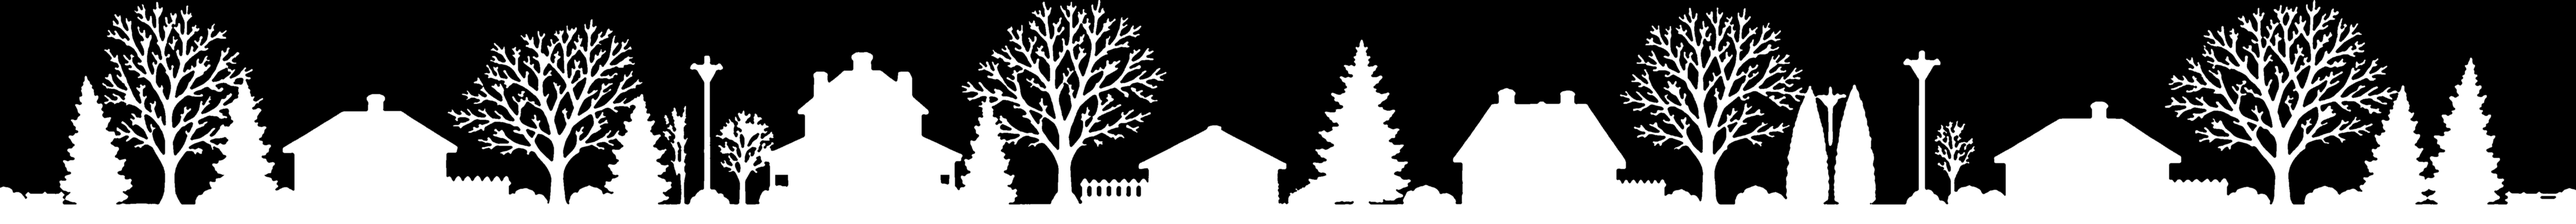
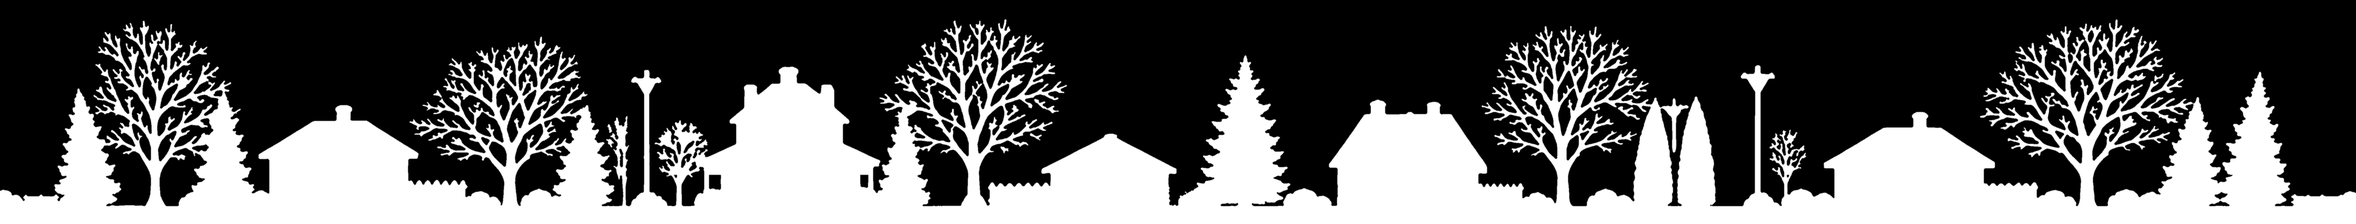
Add a fourth suburban winter strip; size winter strips by a fixed scale
Winter strips are now cropped to the ground line and a fixed reference
height (a fraction of the canvas width) instead of to their own tallest
tree, so houses keep one size across strips from the same generator. The
import tool skips a strip whose cleaned result is mostly empty, and
anchors the ground line to the last mostly-ink row so stray specks below
it can't shift the crop.

Claude-Session: https://claude.ai/code/session_01MW5eBeWibQuxx2FomeEdja

diff --git a/tools/clean_horizon_strip.py b/tools/clean_horizon_strip.py
@@ -37,6 +37,7 @@ OUT_H = 480         # output height in px == 10 deg (48 px/deg), same for every 
 THRESHOLD = 128
 TRUNK_PX = 2.4      # trunk width for re-attached crowns (1x px)
 TRUNK_MAX_PX = 40   # never extend a trunk further than this (1x px)
+BARE_REF_H_FRAC = 0.094  # winter sources: height equal to 10 deg, as a fraction of canvas width
 FENCE_BAND = 0.22   # rural: bottom fraction of the strip cleaned gently (fences)
 END_LOWS = (0.30, 0.45, 0.60)  # "clear" = below this fraction of H; lowest that works wins
 END_WINDOW = 0.20   # look for a clear stretch within this fraction of each end
@@ -137,18 +138,32 @@ def clean_mask(gray, p):
     return m[pad:-pad, pad:-pad], attached
 
 
-def crop_to_ink_rows(gray):
-    """Winter sources come on a tall canvas with the strip in the middle band;
-    the strip's own height is what equals 10 deg, so crop to the ink."""
-    ink_rows = np.where((gray < THRESHOLD).any(axis=1))[0]
-    return gray[ink_rows.min():ink_rows.max() + 1]
+def crop_to_ground_and_ref_height(gray):
+    """Winter sources come on a tall canvas with the strip in the middle band.
+    Crop to the ground line and a fixed height above it (BARE_REF_H_FRAC of the
+    canvas width) instead of to the tallest tree: every strip from one
+    generator shares a scale, and sizing each by its own tallest tree would
+    make houses in a strip with shorter trees look bigger. The reference is
+    just above the tallest tree seen so far, so none is clipped."""
+    ink = gray < THRESHOLD
+    ink_rows = np.where(ink.any(axis=1))[0]
+    # The ground line is the lowest row that is mostly ink across the whole
+    # width; stray specks (lossy-format noise) below it must not move the crop.
+    bottom = np.where(ink.mean(axis=1) > 0.5)[0].max() + 1
+    ref_h = int(round(BARE_REF_H_FRAC * gray.shape[1]))
+    top = bottom - ref_h
+    if top < 0:
+        raise ValueError("canvas is shorter than the reference height")
+    if ink_rows.min() < top:
+        raise ValueError(f"tallest element is {bottom - ink_rows.min()} px, over the {ref_h} px reference")
+    return gray[top:bottom]
 
 
 def clean_strip(src, scene):
     gray = np.array(Image.open(src).convert("L"))
     bare = scene.endswith("-bare")
     if bare:
-        gray = crop_to_ink_rows(gray)
+        gray = crop_to_ground_and_ref_height(gray)
     m, attached = clean_mask(gray, PRESETS[scene])
     if scene == "rural" or bare:
         fine, _ = clean_mask(gray, BARE_GENTLE if bare else GENTLE)
@@ -204,6 +219,12 @@ def main(scene, out_dir, sources):
             # A tall tree at an end would be cut in half (or leave a cliff)
             # wherever the strip is chained to another.
             print(f"{name}: SKIPPED, no clear stretch at the {'left' if llev is None else 'right'} end")
+            continue
+        tallest = (m.shape[0] - np.where(m.any(axis=1))[0].min()) / m.shape[0]
+        if tallest < 0.5:
+            # Almost everything was dropped (typically a crop that missed the
+            # ground band, leaving only the band): never write that out.
+            print(f"{name}: SKIPPED, cleaned strip is only {tallest:.0%} of its height tall")
             continue
         written += 1
         a = to_alpha(m)
